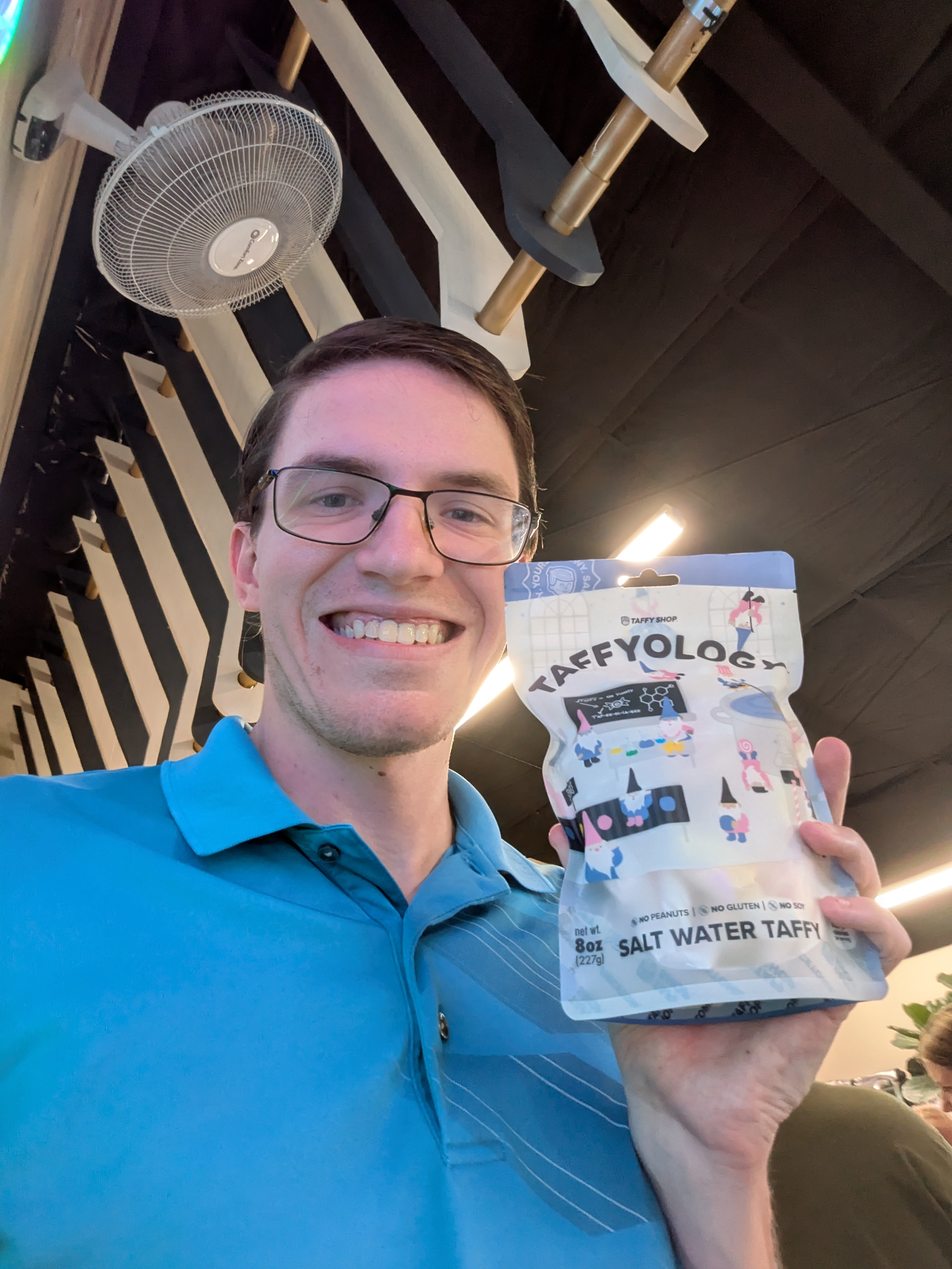
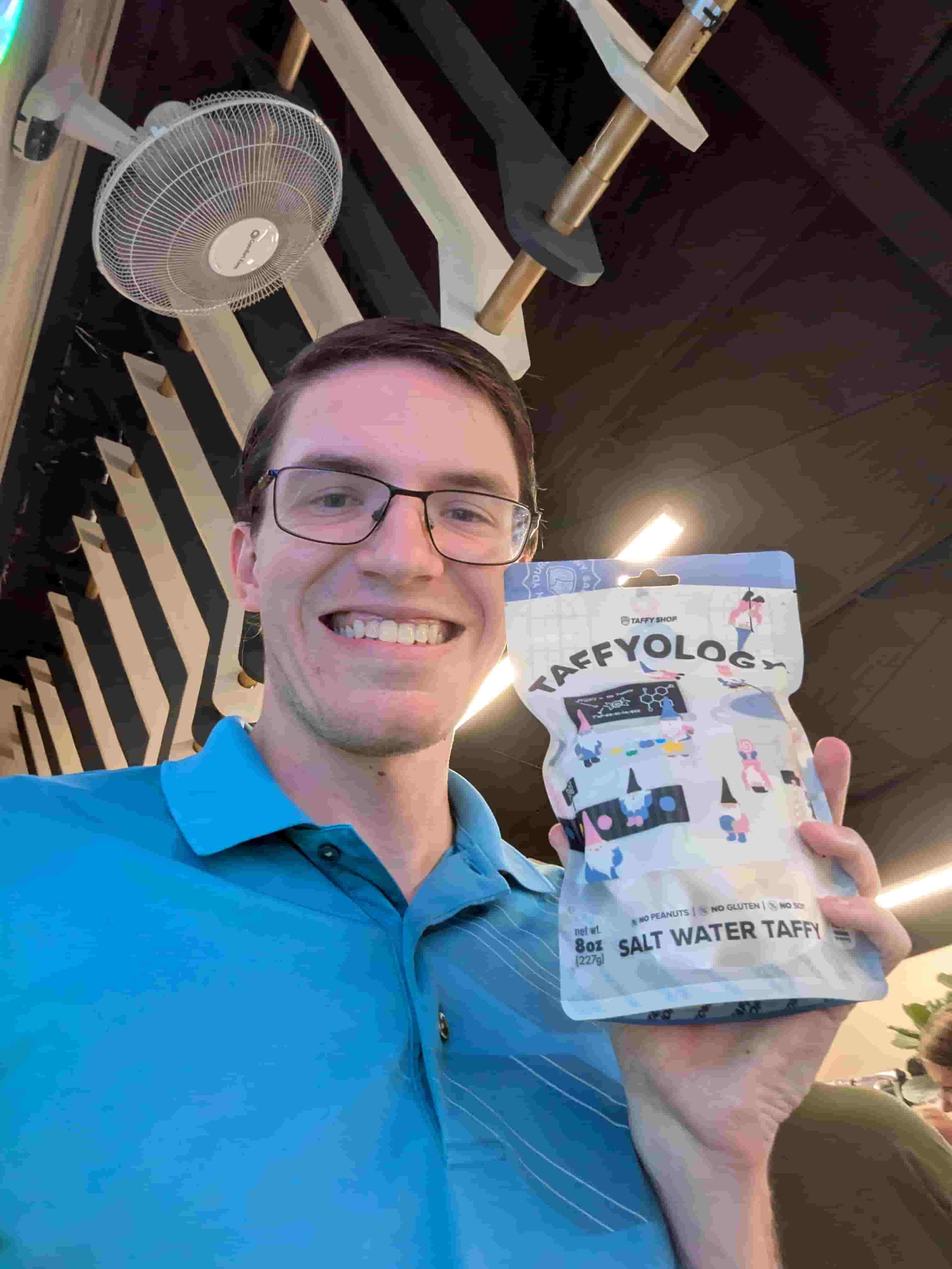
W01 Audit Changes

Changed region(s): [[0.1554, 0.1562, 0.2176, 0.1875], [0.3108, 0.125, 0.3419, 0.1562]]

diff --git a/index.html b/index.html
@@ -4,7 +4,7 @@
     <meta charset="UTF-8">
     <meta name="viewport" content="width=device-width, initial-scale=1.0">
     <title>WDD 231 | Index Page</title>
-    <meta name="description" content="Landing page for WDD 231 course-long assignment">
+    <meta name="description" content="The landing page for WDD 231 course-long assignment">
     <meta name="author" content="Devin Hale">
     
     <link rel="stylesheet" href="styles/small.css">
@@ -29,7 +29,7 @@
     </nav>
     <main>
         <h1>Home</h1>
-        <div class="about">
+        <section class="about">
             <div>
                 <h2>About Me</h2>
                 <p>Hello! My name is Devin Hale, and I'm currently studying web development. Outside of school, I enjoy programming,
@@ -37,13 +37,15 @@
                 that come with both programming and tabletop gaming. I'm looking forward to expanding my skills and learning more about
                 web development throughout this course.</p>
             </div>
-            <div class="student-photo">
-                <h2>Student Photo</h2>
-                <img src="images/devin-hale.jpg" alt="Portrait of Devin Hale" class="selfie">
-            </div>
-        </div>
+            <section>
+                <div class="student-photo">
+                    <h2>Student Photo</h2>
+                    <img src="images/devin-hale.jpg" alt="Portrait of Devin Hale" class="selfie">
+                </div>
+            </section>
+        </section>
 
-        <div class="courses">
+        <section class="courses">
             <h2>Web Certificate Courses</h2>
             <div class="course-buttons">
                 <button id="all-courses">All Courses</button>
@@ -56,7 +58,7 @@
             </div>
 
             <p id="total-credits"></p>
-        </div>
+        </section>
     </main>
     <footer>
         <div class="social">

diff --git a/styles/small.css b/styles/small.css
@@ -25,7 +25,6 @@ h1 {
 h2 {
     background-color: var(--primary-color);
     color: var(--surface-color);
-    padding: 0;
     margin: 0;
     text-align: center;
     padding: 5px 0;
